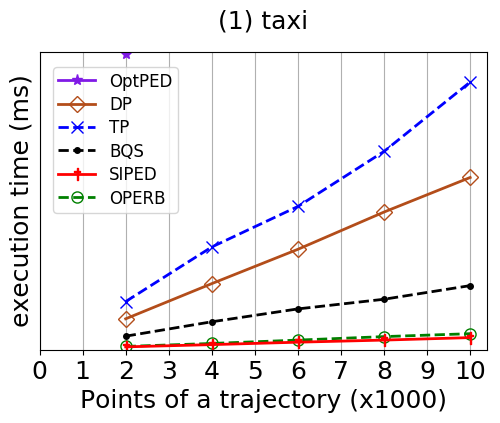
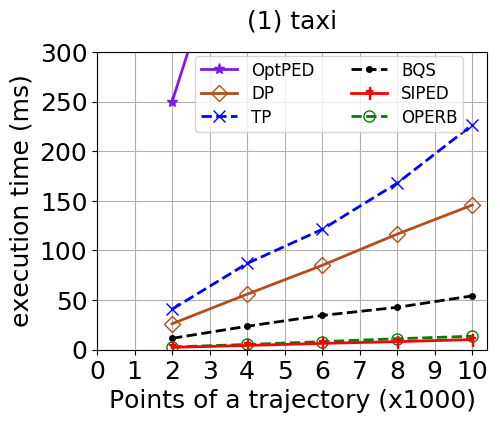
experiment

diff --git a/traj_evaluation/sec-exp.tex b/traj_evaluation/sec-exp.tex
@@ -27,7 +27,7 @@ We use four real-life datasets shown in \mytable{tab:datasets}, namely, taxi tra
 		\hline
 		\kw{Data}& \kw{Number\ of}     &\kw{Sampling}   &\kw{Points~Per}    &\kw{Total} \\
 		\kw{Sets} & \kw{Trajectories}   &\kw{Rates (s)}  &\kw{Trajectory (K)}&\kw{points}\\	\hline
-		\taxi	&\textcolor{red}{500}	    &60	        &\textcolor{red}{$\sim39.1$}      &\textcolor{red}{39.1M} \\	\hline
+		\taxi	&{500}	    &60	        &{$\sim42.8$}      &{21.4M} \\	\hline
 		%\truck	&10,368	    &1-60	    &$\sim71.9$     &746M \\	\hline
 		%\ucar	&11,000	    &3-5	    &$\sim119.1$   &1.31G\\		\hline
 		%
@@ -66,10 +66,10 @@ We use four real-life datasets shown in \mytable{tab:datasets}, namely, taxi tra
 \stitle{Algorithms and implementation}.
 We implement the algorithms listed in \mytable{tab:summary-lsa}.
 For algorithm \cised, we fixed parameter $m=16$ as evaluated in \cite{Lin:Cised}, \ie 16-edges inscribe regular polygon.
-For algorithm \nopts, we fixed parameter $m=32$. 
+% For algorithm \nopts, we fixed parameter $m=32$. 
 All algorithms were implemented with Java.
-All tests were run on an x64-based  PC with 4 Intel(R) Core(TM) i5-4570 CPU @ 3.20GHz  and 16GB of memory. 
-%\textcolor{red}{Todo... Java memory?}
+All tests were run on an x64-based  PC with 4 Intel(R) Core(TM) i7-6700 CPU @
+3.40GHz  and 8GB of memory. {Java max heap size 4GB}
 %, and each test was repeated over 3 times and the average is reported here.
 
 
@@ -143,15 +143,31 @@ We next present our findings.
 
 \begin{figure*}[tb!]
 	\centering
-	\includegraphics[scale=0.315]{Figures/Exp-small-CR-epsilon-taxi.png}\hspace{1ex}
-	\includegraphics[scale=0.315]{Figures/Exp-small-CR-epsilon-service.png} 	\hspace{1ex}
-	\includegraphics[scale=0.315]{Figures/Exp-small-CR-epsilon-geolife.png}	\hspace{1ex}
-	\includegraphics[scale=0.315]{Figures/Exp-small-CR-epsilon-mopsi.png}		
+	\includegraphics[scale=0.315]{Figures/Exp-PED-CR-size-taxi.png}\hspace{1ex}
+	\includegraphics[scale=0.315]{Figures/Exp-PED-CR-size-service.png} 	\hspace{1ex}
+	\includegraphics[scale=0.315]{Figures/Exp-PED-CR-size-geolife.png}	\hspace{1ex}
+	\includegraphics[scale=0.315]{Figures/Exp-PED-CR-size-mopsi.png}		
 	\vspace{-2.5ex}
-	\caption{\small Evaluation of compression ratios (\ped and \sed): varying the error bound $\epsilon$.}
-	\label{fig:cr-all}
+	\caption{\small Evaluation of compression ratios (\ped): varying the size of
+    trajectories.}
+  \label{fig:cr-ped-size}
 	\vspace{-2ex}
 \end{figure*}
+
+\begin{figure*}[tb!]
+	\centering
+	\includegraphics[scale=0.315]{Figures/Exp-SED-CR-size-taxi.png}\hspace{1ex}
+	\includegraphics[scale=0.315]{Figures/Exp-SED-CR-size-service.png} 	\hspace{1ex}
+	\includegraphics[scale=0.315]{Figures/Exp-SED-CR-size-geolife.png}	\hspace{1ex}
+	\includegraphics[scale=0.315]{Figures/Exp-SED-CR-size-mopsi.png}		
+	\vspace{-2.5ex}
+
+	\caption{\small Evaluation of compression ratios (\sed): varying the size of
+    trajectories.}
+  \label{fig:cr-sed-size}
+	\vspace{-2ex}
+\end{figure*}
+
 
 
 
@@ -181,15 +197,30 @@ We next present our findings.
 
 \begin{figure*}[tb!]
 	\centering
-	\includegraphics[scale=0.315]{Figures/Exp-small-error-epsilon-taxi.png} \hspace{1ex}
-	\includegraphics[scale=0.315]{Figures/Exp-small-error-epsilon-service.png}	\hspace{1ex}
-	\includegraphics[scale=0.315]{Figures/Exp-small-error-epsilon-geolife.png}	\hspace{1ex}
-	\includegraphics[scale=0.315]{Figures/Exp-small-error-epsilon-mopsi.png}	
+	\includegraphics[scale=0.315]{Figures/Exp-PED-error-size-taxi.png}\hspace{1ex}
+	\includegraphics[scale=0.315]{Figures/Exp-PED-error-size-service.png} 	\hspace{1ex}
+	\includegraphics[scale=0.315]{Figures/Exp-PED-error-size-geolife.png}	\hspace{1ex}
+	\includegraphics[scale=0.315]{Figures/Exp-PED-error-size-mopsi.png}		
 	\vspace{-2.5ex}
-	\caption{\small Evaluation of average errors (\ped and \sed): varying the error bound $\epsilon$.}
-	\label{fig:ae-all}
+	\caption{\small Evaluation of average errors (\ped): varying the size of
+    trajectories.}
+  \label{fig:ae-ped-size}
 	\vspace{-2ex}
 \end{figure*}
+
+\begin{figure*}[tb!]
+	\centering
+	\includegraphics[scale=0.315]{Figures/Exp-SED-error-size-taxi.png}\hspace{1ex}
+	\includegraphics[scale=0.315]{Figures/Exp-SED-error-size-service.png} 	\hspace{1ex}
+	\includegraphics[scale=0.315]{Figures/Exp-SED-error-size-geolife.png}	\hspace{1ex}
+	\includegraphics[scale=0.315]{Figures/Exp-SED-error-size-mopsi.png}		
+	\vspace{-2.5ex}
+	\caption{\small Evaluation of average errors (\sed): varying the size of
+    trajectories.}
+  \label{fig:ae-sed-size}
+	\vspace{-2ex}
+\end{figure*}
+
 
 
 %%%%%%%%%%%%%%%%%%%%%%%%%%%%%%%%%%%%%%%%%%%%%%%%%%%%%%%%%%%%%%%%%%%%%%%%%%%%%
@@ -279,18 +310,6 @@ $64.50\%$, $40.63\%$) of algorithms \nopts, \tpa and \dpa using \sed on datasets
 	\caption{\small Evaluation of efficiency (\sed): varying the error bound $\epsilon$.}\label{fig:time-epsilon-sed}
 	\vspace{-2ex}
 \end{figure*}
-
-\begin{figure*}[tb!]
-	\centering
-	\includegraphics[scale=0.315]{Figures/Exp-small-time-epsilon-taxi.png}\hspace{1ex}
-	\includegraphics[scale=0.315]{Figures/Exp-small-time-epsilon-service.png} 	\hspace{1ex}
-	\includegraphics[scale=0.315]{Figures/Exp-small-time-epsilon-geolife.png}	\hspace{1ex}
-	\includegraphics[scale=0.315]{Figures/Exp-small-time-epsilon-mopsi.png}		
-	\vspace{-2.5ex}
-	\caption{\small Evaluation of compression ratios (\ped and \sed): varying the error bound $\epsilon$.}
-	\vspace{-2ex}
-\end{figure*}
-
 
 
 \begin{figure*}[tb!]
